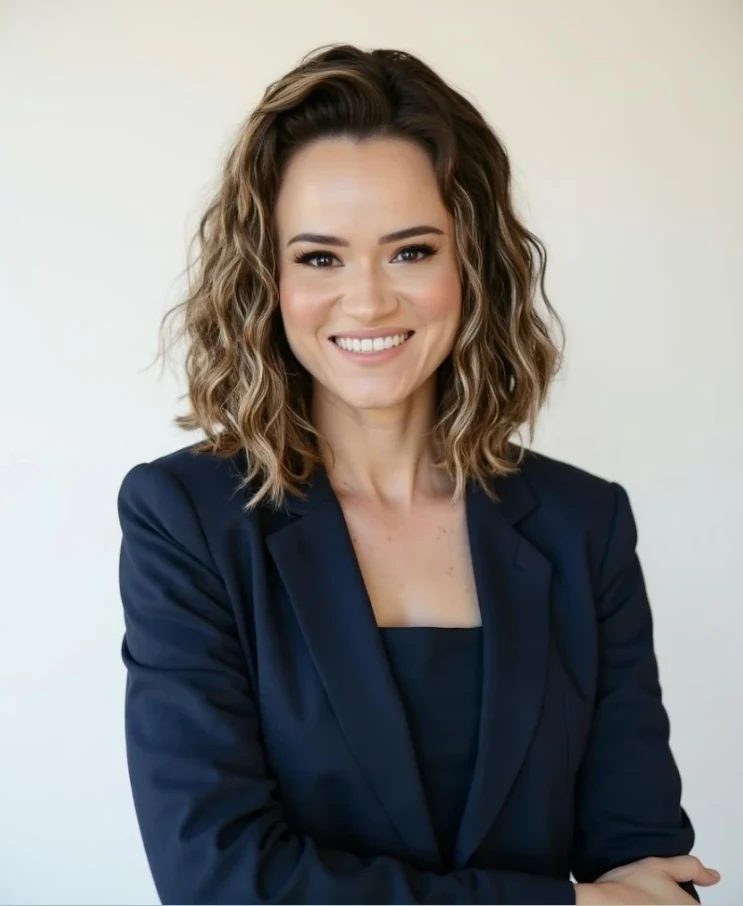
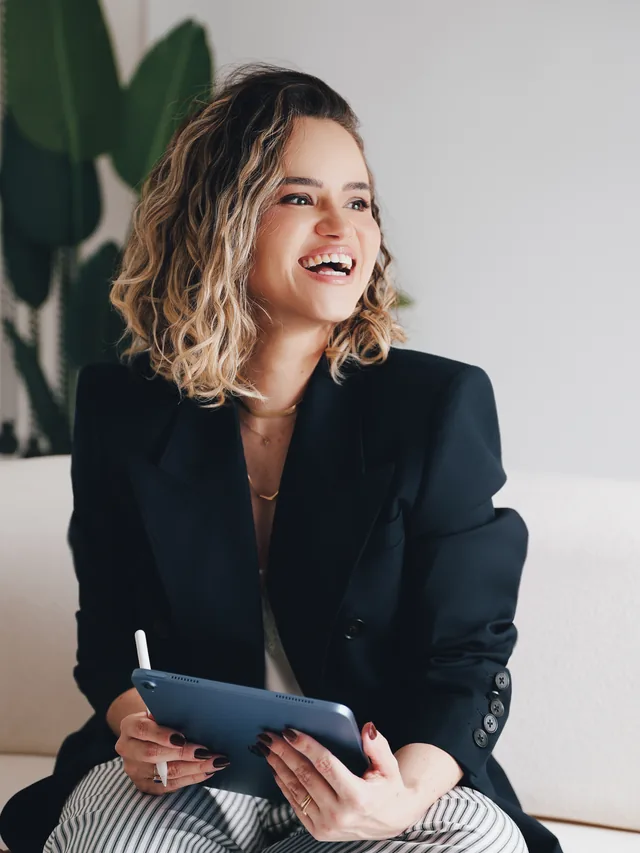
Substitui todas as fotos do site pelo novo ensaio fotográfico
A cliente fez um ensaio profissional novo em estúdio, em alta resolução
(pasta "Material cliente/Ensaio", fora do repositório). Reprocessa 6 fotos
escolhidas: recorte na proporção exata de cada componente CSS (hero
896:1120, about__media 843:1000, page-hero--split 3:4), exportação em
.webp otimizado (21-53KB cada, ante 10-22MB dos arquivos brutos).

Substituídas (mesmo arquivo, nova foto):
- indiara-inicio.webp -> hero da Início
- indiara-sobre.webp -> seção Trajetória em Sobre
- indiara-blog.webp -> hero do Blog

Novas (posições que não tinham foto antes):
- indiara-sobre-resumo.webp -> seção "Sobre" resumida na Início (antes
  reaproveitava a mesma foto da página Sobre; agora é uma foto própria)
- indiara-sobre-hero.webp -> novo hero com foto em Sobre, reaproveitando
  o componente .page-hero--split que já existia (mesmo do Blog)
- indiara-servicos-hero.webp -> novo hero com foto em Serviços, fechando
  uma lacuna que estava pendente há semanas

Nenhuma foto repetida entre as 6 posições.

diff --git a/sobre.html b/sobre.html
@@ -56,17 +56,22 @@
 
 <main id="main">
 
-  <section class="page-hero">
-    <div class="container">
-      <p class="breadcrumb"><a href="/">Início</a> · <span>Sobre</span></p>
-      <p class="eyebrow">Sobre</p>
-      <h1>Ciência e escuta, sem escolher entre as duas</h1>
-      <p>
-        Sou psicóloga clínica (CRP 16/11211). Tenho uma relação séria com a Psicologia:
-        para mim, o trabalho clínico não pode ser conduzido de forma improvisada ou
-        baseada apenas em opinião. Ao mesmo tempo, não quero que o rigor técnico produza
-        uma clínica fria.
-      </p>
+  <section class="page-hero page-hero--split">
+    <div class="container page-hero__inner">
+      <div class="page-hero__text">
+        <p class="breadcrumb"><a href="/">Início</a> · <span>Sobre</span></p>
+        <p class="eyebrow">Sobre</p>
+        <h1>Ciência e escuta, sem escolher entre as duas</h1>
+        <p>
+          Sou psicóloga clínica (CRP 16/11211). Tenho uma relação séria com a Psicologia:
+          para mim, o trabalho clínico não pode ser conduzido de forma improvisada ou
+          baseada apenas em opinião. Ao mesmo tempo, não quero que o rigor técnico produza
+          uma clínica fria.
+        </p>
+      </div>
+      <div class="page-hero__photo">
+        <img src="/assets/indiara-sobre-hero.webp" width="640" height="853" alt="Indiara de Lima" loading="lazy" />
+      </div>
     </div>
   </section>
 
@@ -74,7 +79,7 @@
     <span class="section__index">i.</span>
     <div class="container about__grid">
       <div class="about__media reveal">
-        <img src="/assets/indiara-sobre.webp" width="750" height="903" alt="Indiara de Lima" />
+        <img src="/assets/indiara-sobre.webp" width="750" height="890" alt="Indiara de Lima" />
       </div>
       <div class="about__body reveal">
         <p class="eyebrow">Trajetória</p>

diff --git a/servicos.html b/servicos.html
@@ -56,16 +56,21 @@
 
 <main id="main">
 
-  <section class="page-hero">
-    <div class="container">
-      <p class="breadcrumb"><a href="/">Início</a> · <span>Serviços</span></p>
-      <p class="eyebrow">Serviços</p>
-      <h1>Psicoterapia individual, com direção</h1>
-      <p>
-        Atendimento para adultos, online e presencial em Linhares/ES. A modalidade muda o formato
-        do encontro, não a estrutura do trabalho: avaliação, formulação do caso, plano com
-        objetivos e revisão de progresso.
-      </p>
+  <section class="page-hero page-hero--split">
+    <div class="container page-hero__inner">
+      <div class="page-hero__text">
+        <p class="breadcrumb"><a href="/">Início</a> · <span>Serviços</span></p>
+        <p class="eyebrow">Serviços</p>
+        <h1>Psicoterapia individual, com direção</h1>
+        <p>
+          Atendimento para adultos, online e presencial em Linhares/ES. A modalidade muda o formato
+          do encontro, não a estrutura do trabalho: avaliação, formulação do caso, plano com
+          objetivos e revisão de progresso.
+        </p>
+      </div>
+      <div class="page-hero__photo">
+        <img src="/assets/indiara-servicos-hero.webp" width="640" height="853" alt="Indiara de Lima" loading="lazy" />
+      </div>
     </div>
   </section>
 

diff --git a/index.html b/index.html
@@ -124,7 +124,7 @@
       </div>
 
       <div class="hero__portrait" data-load="3">
-        <img src="/assets/indiara-inicio.webp" width="743" height="906" alt="Indiara de Lima, psicóloga clínica" fetchpriority="high" />
+        <img src="/assets/indiara-inicio.webp" width="750" height="938" alt="Indiara de Lima, psicóloga clínica" fetchpriority="high" />
         <div class="hero__frame"></div>
         <div class="hero__badge">
           <img src="/assets/logo-simbolo.png" alt="" aria-hidden="true" />
@@ -149,7 +149,7 @@
     <span class="section__index">i.</span>
     <div class="container about__grid">
       <div class="about__media reveal">
-        <img src="/assets/indiara-sobre.webp" width="750" height="903" alt="Indiara de Lima" loading="lazy" />
+        <img src="/assets/indiara-sobre-resumo.webp" width="750" height="890" alt="Indiara de Lima" loading="lazy" />
       </div>
       <div class="about__body reveal">
         <p class="eyebrow">Sobre</p>

diff --git a/blog.html b/blog.html
@@ -69,7 +69,7 @@
         </p>
       </div>
       <div class="page-hero__photo">
-        <img src="/assets/indiara-blog.webp" width="743" height="906" alt="Indiara de Lima" loading="lazy" />
+        <img src="/assets/indiara-blog.webp" width="640" height="853" alt="Indiara de Lima" loading="lazy" />
       </div>
     </div>
   </section>
